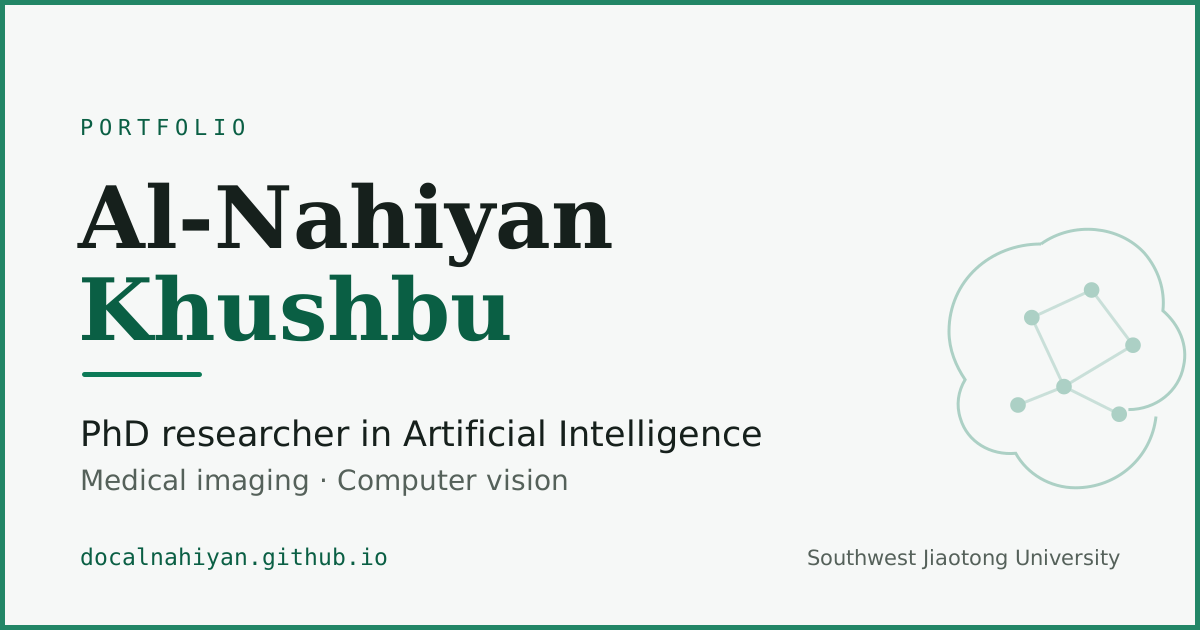
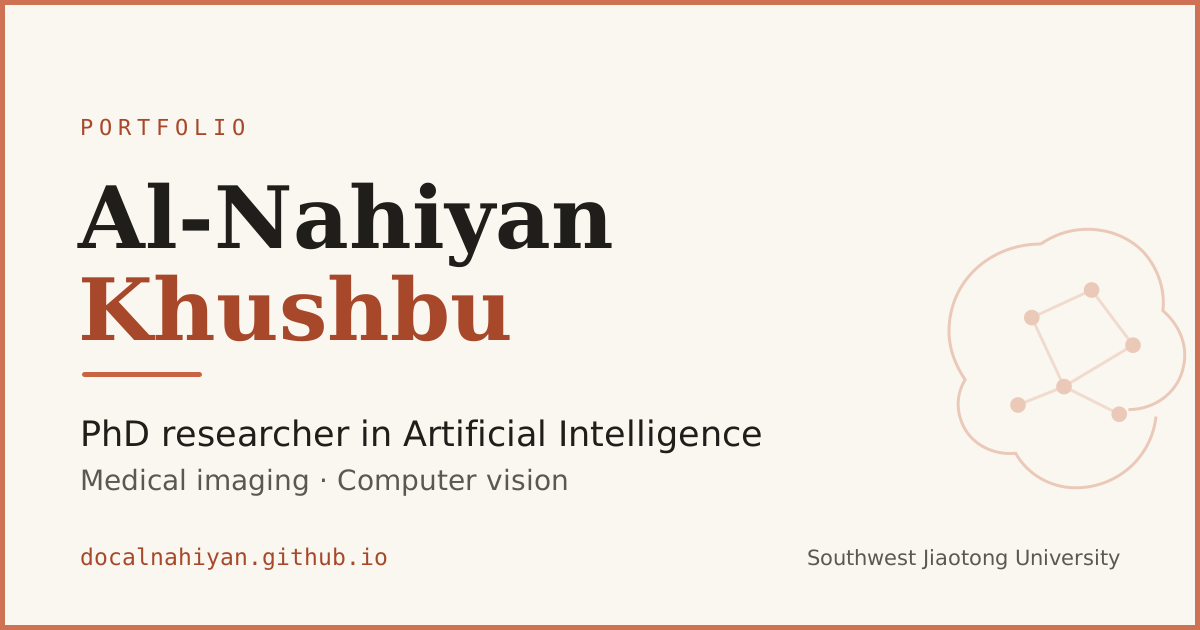
Recolour to the Claude clay palette
- New light and dark token values in all three token blocks
- Buttons and the skip link fill with --accent-ink (white text in
  light, #241f1b in dark); --accent stays for marks and borders
- --ink-3 and light --warn-ink nudged in lightness (same hue) so
  all small text passes WCAG AA
- Favicon, theme-color and OG image recoloured to match

diff --git a/src/styles/global.css b/src/styles/global.css
@@ -1,22 +1,25 @@
-/* Design tokens — values match design-reference/mockup.html, except --ink-3
-   and --warn-ink, adjusted (same hue) so small text passes WCAG AA contrast.
+/* Design tokens — "Claude clay" palette. Structure follows
+   design-reference/mockup.html. --accent is for marks, borders and active
+   states; --accent-ink is for links, button fills and accent text.
+   --ink-3 (both themes) and --warn-ink (light) are nudged in lightness from
+   the palette, same hue, so small text passes WCAG AA on every background.
    Light palette on :root; the dark palette applies either from the OS
    preference (unless the visitor chose light) or from an explicit choice. */
 :root {
-  --bg: #f7f8f8;
-  --surface: #ffffff;
-  --surface-2: #f0f3f2;
-  --ink: #16201c;
-  --ink-2: #48564f;
-  --ink-3: #65706a;
-  --border: #e2e7e4;
-  --border-strong: #cfd6d1;
-  --accent: #0c7a57;
-  --accent-ink: #0a5f44;
-  --accent-wash: #e8f3ee;
-  --warn: #b7791f;
-  --warn-ink: #966319;
-  --warn-wash: #fbf3e2;
+  --bg: #faf7f0;
+  --surface: #fffdf9;
+  --surface-2: #f2ece0;
+  --ink: #201e1a;
+  --ink-2: #5c584f;
+  --ink-3: #6e6a60;
+  --border: #e8e1d4;
+  --border-strong: #d9d1c1;
+  --accent: #c96442;
+  --accent-ink: #a8482b;
+  --accent-wash: #f6e9e1;
+  --warn: #9a6a1b;
+  --warn-ink: #8e6219;
+  --warn-wash: #f6edda;
   --on-accent: #ffffff;
   --radius: 10px;
   --maxw: 780px;
@@ -28,41 +31,41 @@
 
 @media (prefers-color-scheme: dark) {
   :root:not([data-theme="light"]) {
-    --bg: #0e1311;
-    --surface: #151c19;
-    --surface-2: #1b2420;
-    --ink: #e8eeea;
-    --ink-2: #a9b5ae;
-    --ink-3: #818d85;
-    --border: #273029;
-    --border-strong: #36423a;
-    --accent: #43c79a;
-    --accent-ink: #6ad6b0;
-    --accent-wash: #132a22;
+    --bg: #211f1c;
+    --surface: #2a2824;
+    --surface-2: #32302b;
+    --ink: #efeae1;
+    --ink-2: #b7b1a4;
+    --ink-3: #9e988c;
+    --border: #3a362f;
+    --border-strong: #4a453c;
+    --accent: #e08a6a;
+    --accent-ink: #ea9c7e;
+    --accent-wash: #3a2a22;
     --warn: #e0a94a;
     --warn-ink: #e0a94a;
-    --warn-wash: #2a2213;
-    --on-accent: #06130e;
+    --warn-wash: #2f2514;
+    --on-accent: #241f1b;
     color-scheme: dark;
   }
 }
 
 :root[data-theme="dark"] {
-  --bg: #0e1311;
-  --surface: #151c19;
-  --surface-2: #1b2420;
-  --ink: #e8eeea;
-  --ink-2: #a9b5ae;
-  --ink-3: #818d85;
-  --border: #273029;
-  --border-strong: #36423a;
-  --accent: #43c79a;
-  --accent-ink: #6ad6b0;
-  --accent-wash: #132a22;
+  --bg: #211f1c;
+  --surface: #2a2824;
+  --surface-2: #32302b;
+  --ink: #efeae1;
+  --ink-2: #b7b1a4;
+  --ink-3: #9e988c;
+  --border: #3a362f;
+  --border-strong: #4a453c;
+  --accent: #e08a6a;
+  --accent-ink: #ea9c7e;
+  --accent-wash: #3a2a22;
   --warn: #e0a94a;
   --warn-ink: #e0a94a;
-  --warn-wash: #2a2213;
-  --on-accent: #06130e;
+  --warn-wash: #2f2514;
+  --on-accent: #241f1b;
   color-scheme: dark;
 }
 
@@ -137,7 +140,7 @@ img {
   z-index: 100;
   padding: 8px 14px;
   border-radius: 8px;
-  background: var(--accent);
+  background: var(--accent-ink);
   color: var(--on-accent);
   font-size: 14px;
 }
@@ -285,8 +288,8 @@ main {
   line-height: 1.3;
   padding: 9px 15px;
   border-radius: 8px;
-  border: 1px solid var(--accent);
-  background: var(--accent);
+  border: 1px solid var(--accent-ink);
+  background: var(--accent-ink);
   color: var(--on-accent);
   cursor: pointer;
 }
